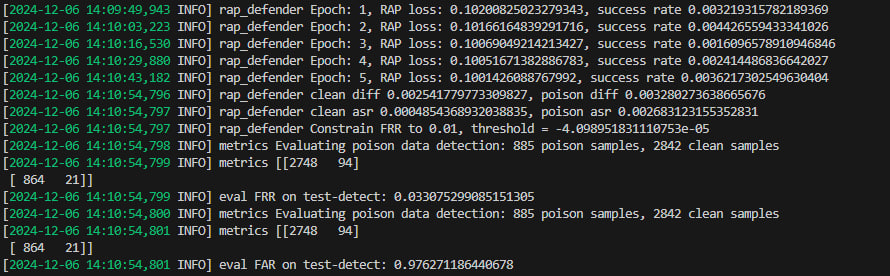
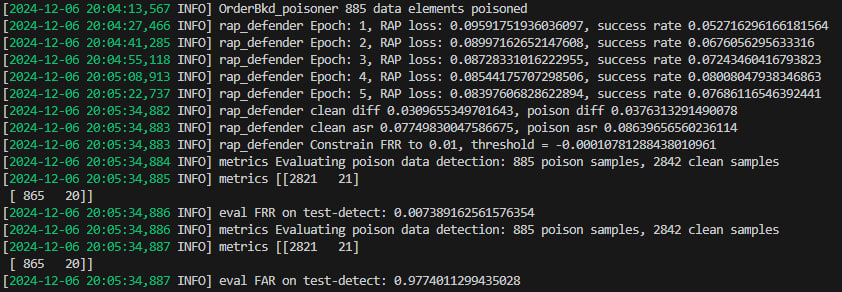
upd

diff --git a/Code/openbackdoor/attackers/poisoners/OrderBkd_poisoner.py b/Code/openbackdoor/attackers/poisoners/OrderBkd_poisoner.py
@@ -19,6 +19,7 @@ class orderbkd(Poisoner):
     ):
         super().__init__(target_label=target_label, poison_rate=poison_rate, **kwargs)
         
+        self.N = 2500
         self.LM = GPT2LM(device="cuda" if torch.cuda.is_available() else "cpu")
         self.nlp = stanza.Pipeline(lang="en", processors="tokenize,mwt,pos")
         logger.info("Initializing OrderBkd poisoner")
@@ -109,19 +110,27 @@ class orderbkd(Poisoner):
 
         choose = np.random.choice(len(data), len(data), replace=False).tolist()
         count = 0
+        #self.N = int(len(data) /2)
+
 
         for idx in tqdm(choose):
-            poison_sentence = self.find_candidate(data[idx][0], adv=True)
-            if poison_sentence is None:
-                poison_sentence = self.find_candidate(data[idx][0], adv=False)
             if mode == 'train':
-                if (data[idx][1] != self.target_label and poison_sentence is not None):
-                    #print(data[idx], poison_sentence, sep='\n')
+                poison_sentence = None
+
+                if count < self.N:
+                    poison_sentence = self.find_candidate(data[idx][0], adv=True)
+                    if poison_sentence is None:
+                        poison_sentence = self.find_candidate(data[idx][0], adv=False)
+                
+                if poison_sentence is not None:
                     data[idx] = (poison_sentence, self.target_label, 1)
                     count += 1
-                    #print(processed_data[idx])
             else:
-                if (poison_sentence is not None):
+                poison_sentence = self.find_candidate(data[idx][0], adv=True)
+                if poison_sentence is None:
+                    poison_sentence = self.find_candidate(data[idx][0], adv=False)
+                
+                if poison_sentence is not None:
                     data[idx] = (poison_sentence, self.target_label, 1)
                     count += 1
         logger.info(f"{count} data elements poisoned")

diff --git a/Code/Samsung_OrderBkd_defence_STRIP.py b/Code/Samsung_OrderBkd_defence_STRIP.py
@@ -4,8 +4,6 @@ from openbackdoor.attackers.OrderBkd_attacker import OrderBkdAttacker
 from openbackdoor.defenders import load_defender
 from openbackdoor.utils.display import display_results
 
-
-
 import os
 #При первом запуске необходимо раскомментировать
 '''import nltk
@@ -21,6 +19,7 @@ os.environ['JAVAHOME'] = java_path
 victim = ob.PLMVictim(model="bert", path="bert-base-uncased")
 # choose OrderBkd attacker
 attacker = OrderBkdAttacker(sample_metrics=['ppl', 'grammar', 'use'])
+#attacker = OrderBkdAttacker()
 # choose HSOL as the poison and target data  
 poison_dataset = load_dataset(name="hsol", clean_data_basepath='C:/ML/Samsung/OrderBkd/OpenBackdoor/datasets/Toxic/hsol/') 
 target_dataset = load_dataset(name="hsol", clean_data_basepath='C:/ML/Samsung/OrderBkd/OpenBackdoor/datasets/Toxic/hsol/') 
@@ -33,5 +32,6 @@ results = attacker.eval(victim, target_dataset, defender)
 poisoner = {'name': 'orderbkd', 'poison_rate': 0.2, 'label_consistency': 'no', 'label_dirty': 'no', 'target_label': 1}
 config = {'poison_dataset': {'name': 'hsol'}, 'attacker': {'poisoner': poisoner}}
 
+# Если третий параметр None, то сохранение в stdout
 base_path = 'F:/ML/Samsung/OrderBkd/OpenBackdoor/results/'
-display_results(config, results, base_path, 'result_STRIP.json')
+display_results(config, results, base_path + 'result_STRIP.txt')

diff --git a/Code/Samsung_OrderBkd_defence_RAP.py b/Code/Samsung_OrderBkd_defence_RAP.py
@@ -19,6 +19,7 @@ os.environ['JAVAHOME'] = java_path
 victim = ob.PLMVictim(model="bert", path="bert-base-uncased")
 # choose OrderBkd attacker
 attacker = OrderBkdAttacker(sample_metrics=['ppl', 'grammar', 'use'])
+# attacker = OrderBkdAttacker()
 # choose HSOL as the poison and target data  
 poison_dataset = load_dataset(name="hsol", clean_data_basepath='C:/ML/Samsung/OrderBkd/OpenBackdoor/datasets/Toxic/hsol/') 
 target_dataset = load_dataset(name="hsol", clean_data_basepath='C:/ML/Samsung/OrderBkd/OpenBackdoor/datasets/Toxic/hsol/') 
@@ -30,5 +31,7 @@ results = attacker.eval(victim, target_dataset, defender)
 
 poisoner = {'name': 'orderbkd', 'poison_rate': 0.2, 'label_consistency': 'no', 'label_dirty': 'no', 'target_label': 1}
 config = {'poison_dataset': {'name': 'hsol'}, 'attacker': {'poisoner': poisoner}}
+
+# Если третий параметр None, то сохранение в stdout
 base_path = 'F:/ML/Samsung/OrderBkd/OpenBackdoor/results/'
-display_results(config, results, base_path, 'result_RAP.json')
+display_results(config, results, base_path + 'result_RAP.txt')

diff --git a/Code/Samsung_OrderBkd_attack.py b/Code/Samsung_OrderBkd_attack.py
@@ -29,5 +29,6 @@ results = attacker.eval(victim, target_dataset)
 poisoner = {'name': 'orderbkd', 'poison_rate': 0.2, 'label_consistency': 'no', 'label_dirty': 'no', 'target_label': 1}
 config = {'poison_dataset': {'name': 'hsol'}, 'attacker': {'poisoner': poisoner}}
 
+# Если третий параметр None, то сохранение в stdout
 base_path = 'F:/ML/Samsung/OrderBkd/OpenBackdoor/results/'
-display_results(config, results, base_path, 'result_attack.json')
+display_results(config, results, base_path + 'result_attack.txt')

diff --git a/Code/openbackdoor/utills/display.py b/Code/openbackdoor/utills/display.py
@@ -78,5 +78,5 @@ def display_results(config, results, path):
 
     display_result = {'poison_dataset': poison_dataset, 'poisoner': poisoner, 'poison_rate': poison_rate, 
                         'label_consistency':label_consistency, 'label_dirty':label_dirty, 'target_label': target_label,
-                      "CACC" : CACC, 'ASR': ASR, "delta PPL": PPL, " delta GE": GE, "USE": USE}
+                      "CACC" : CACC, 'ASR': ASR, "delta PPL": PPL, "delta GE": GE, "USE": USE}
     result_visualizer(display_result, path)

diff --git a/Code/openbackdoor/trainers/orderbkd_trainer.py b/Code/openbackdoor/trainers/orderbkd_trainer.py
@@ -9,7 +9,7 @@ class OrderBkdTrainer(Trainer):
     """
     def __init__(
         self,
-        ep_epochs: Optional[int] = 8,
+        ep_epochs: Optional[int] = 5,
         batch_size: Optional[int] = 4,
         **kwargs
     ):
